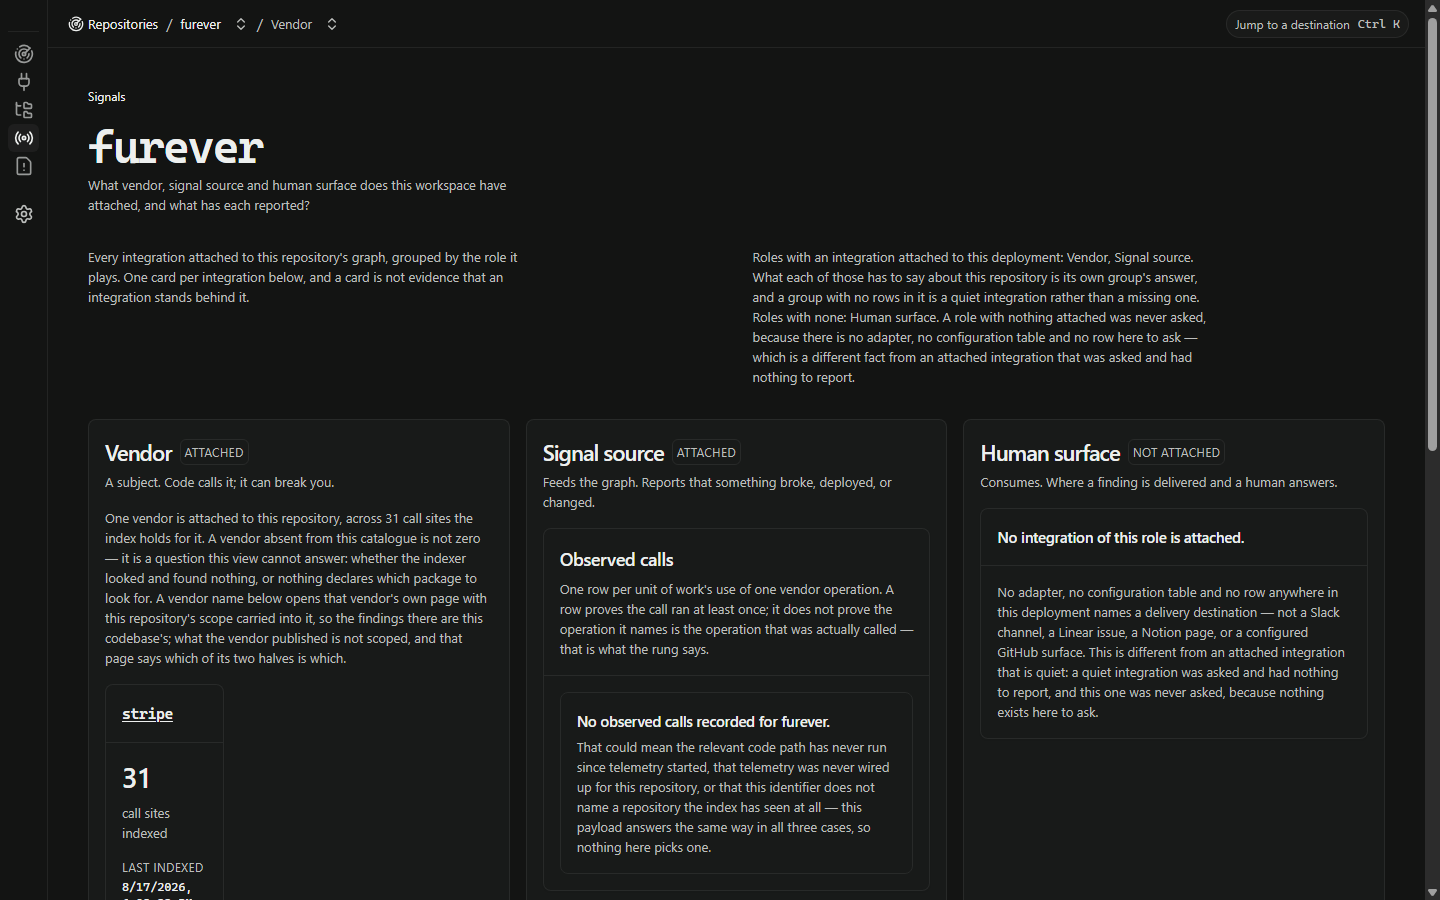
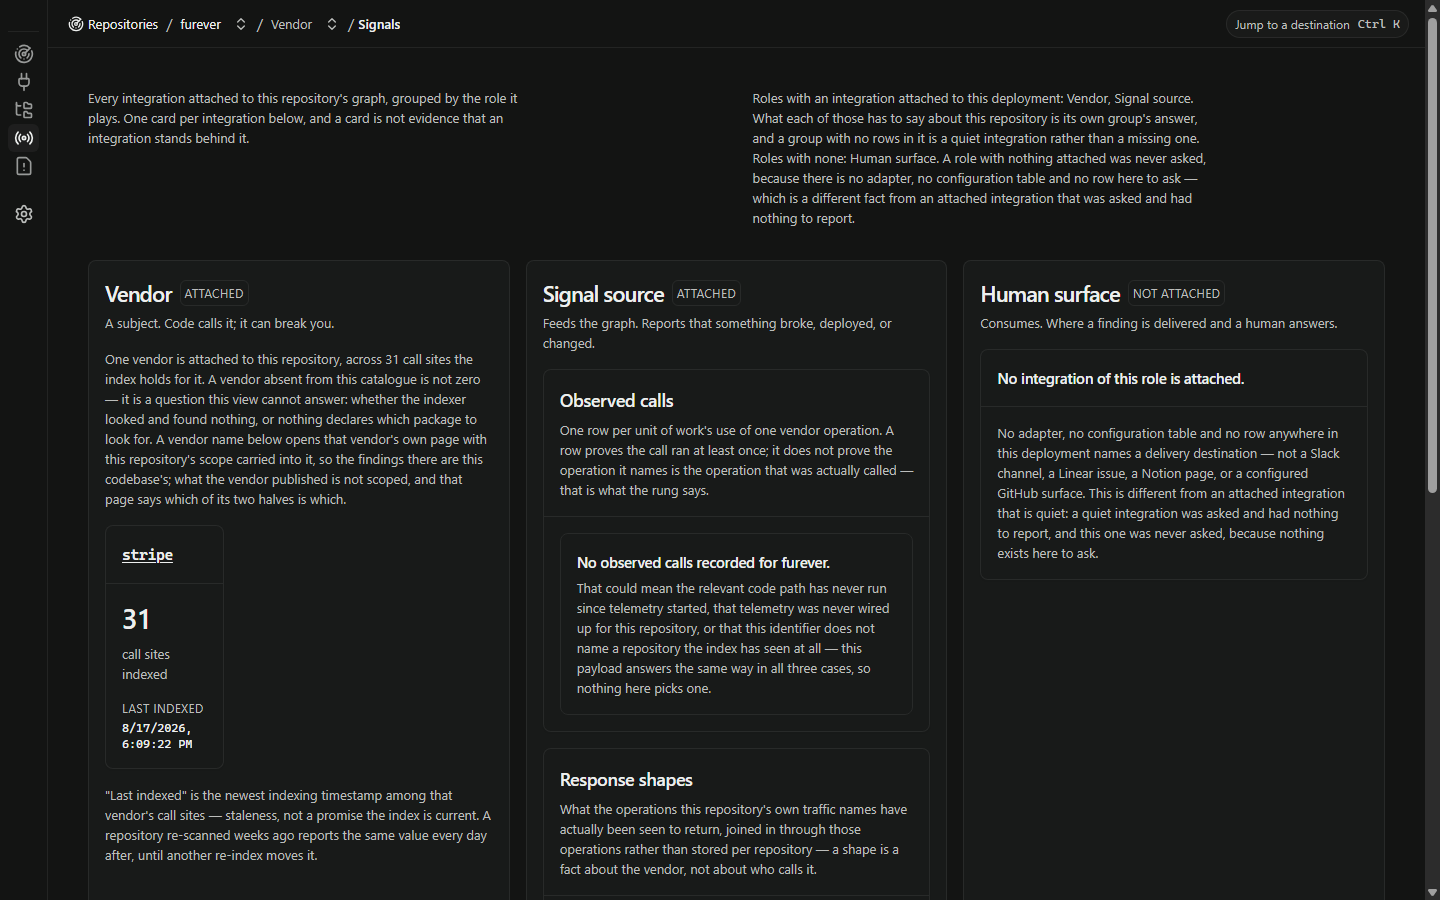
docs: CI-W388 re-walk and re-sign, because the gate nearly went green on a tree nobody walked
The first walk was at 09369e95. A merge then landed fifteen web/src files --
the scope switcher, and a page header removed per the recorded decision --
forty-one seconds before the signature line I had written.

Gate 3 read MET on that arithmetic alone: my signature was newer than the
console's last change, so the check passed, for a tree I had not seen. That is
exactly the failure this gate exists to catch, arriving from the inside, and it
is what "do not update a date line to make a gate go green" means in practice --
I had not stamped a date, and the effect was the same.

So the console was rebuilt, the nine screens re-captured and re-read at
6f80377d, and the signature moved to the second pass. The verdicts are unchanged
between the two walks; the codebase screen shows the removed page header and the
fourth breadcrumb segment, and its figures, scope statements and absence markers
are intact.

diff --git a/docs/superpowers/reports/2026-08-18-gate-3-walk.md b/docs/superpowers/reports/2026-08-18-gate-3-walk.md
@@ -1,9 +1,17 @@
-# Gate 3 — the walk that re-signs the console at `09369e95`
+# Gate 3 — the walk that re-signs the console at `6f80377d`
 
-Signed: 2026-08-18T03:11:45-04:00
+Signed: 2026-08-18T03:15:21-04:00
 
 (Unadorned, because `scripts/beta_gates.py` anchors its pattern on `^Signed:` and a bold line is
 silently not read. The previous walk records the same trap.)
+
+**Walked twice, and the second pass is the one this signature covers.** The first was at
+`09369e95`; a merge then landed fifteen `web/src` files -- the scope switcher, and a page
+header removed per the recorded decision -- forty-one seconds before the signature line. The
+gate would have read `MET` on that arithmetic alone, for a tree nobody had walked. **That is
+the failure this gate exists to catch, arriving from the inside**, so the console was rebuilt,
+the nine screens re-captured and re-read at the sha above, and the signature moved to the
+second pass. The verdicts below are unchanged between the two.
 
 Nine screens, walked in Chrome at 1440×900 on the **production build** served as static assets
 behind the shared credential, against a seeded graph with six repositories and fifteen open
@@ -96,7 +104,7 @@ Pass the origin without a trailing slash.
 
 ## What this signature does and does not claim
 
-It claims that at `09369e95`, on the production build, these nine screens rendered and none of them
+It claims that at `6f80377d`, on the production build, these nine screens rendered and none of them
 asserted a figure nothing computed. It does not claim the console will still be this at the next
 landing — four lanes are working `web/` and the gate will correctly go stale the moment one lands.
 **That is the gate working, and re-signing faster is not the answer to it.**
